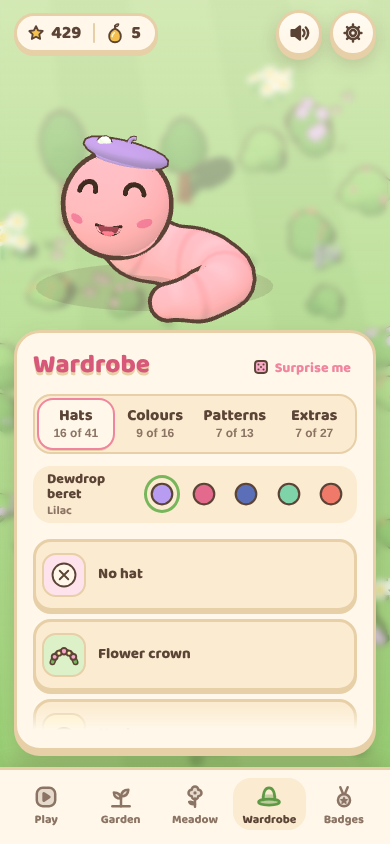
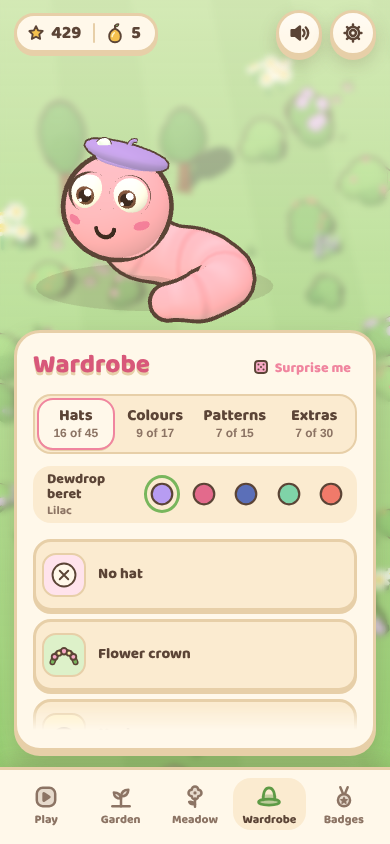
Release 1.27.0: five new chapters, new cosmetics and play-style badges
Claude-Session: https://claude.ai/code/session_018b3cP1De1FMBieJja8GZr1

diff --git a/src/game/ui/news.js b/src/game/ui/news.js
@@ -4,6 +4,10 @@
 // add an entry on top. Returning players see the newest entry once as a card on the Play tab, new players never
 // do (squirm-news holds the last version seen); Settings > About lists them all.
 const NEWS=[
+  ['1.27.0','2026-11-08','Everything blooms',['Five new chapters, fifty patches where three or more garden tricks work together: picnics in the rain, busy bees, secret passages, slippery slopes and one last big bloom.',
+    'New things to wear: a frog hood, a pirate hat, a watering can, a bucket hat, a bee buddy, a snorkel, a party blower, candy stripes, a starry pattern and a Moonbeam worm.',
+    'Clever crawling: nine new badges for how you play, like winning in the rain, at every time of day, or with a different hat three times in a row.',
+    'Anything you\'ve already earned stays yours, even when new patches arrive.']],
   ['1.26.1','2026-11-07','Race fix',['After a race, your friend\'s moves no longer stay at the top of the screen in your next patch.']],
   ['1.26.0','2026-11-06','Digging and moles',['Two new things in the garden: dirt mounds your worm can dig through (it comes out one segment shorter), and moles that pop up out of their hills every other move. Time your crawl!','Six new chapters, from a gentle Digging in to Deep roots, now the hardest patches in the game.','New things to wear: a flowerpot, a mole friend, a propeller cap, pearls, a bubble-gum bubble and star earrings, plus a muddy-tail pattern, a sticking plaster for bumping into moles, a new orchid worm colour and nine new badges.','Switch on dirt mounds and moles in the meadow too.']],
   ['1.25.1','2026-11-06','Meadow fix',['Switching on lots of meadow mechanics, or all of them, now grows a patch that uses a mix of them, instead of a plain one.']],

diff --git a/CLAUDE.md b/CLAUDE.md
@@ -504,6 +504,13 @@ from a tab replaces that layer with `game`.
 - **Extras:** `EXTRAS` (`[id, name, how to earn, test]`) work the same way through `buildExtra` into the
   head's `accSlot`, saved in `squirm-extra`. An extra (or pattern) that a chapter earns uses `byChapter(k)` as its test. Every hat and extra needs a sticker in `ART` (`hat-<id>` /
   `extra-<id>`).
+- **Earned stays earned:** hats, extras and patterns pass through `kept(key,test)` (`core/base.js`; `hatUnlocked` for hats,
+  wrapped in `rewards/colours.js` for the rest): once a test passes, `progress.kept['h:'|'e:'|'p:'+id]` remembers it, so a
+  test that can turn false again (new patches make "finish every garden patch" untrue) never locks an item. `keepSweep`
+  at boot notes everything already earned, and once (`kept.v`) gave the Butterfly friend to whoever had grown the 340
+  patches from before chapters 35-39. Badges are stored once earned already; colours go by stars, which never drop. When
+  you add a test that new patches could undo (counts out of `LEVELS.length`, `allCleared`), it's covered; when you change
+  an existing test so it gets harder, nothing changes for players who already have the item.
 - **Wear motion** (end of `models/extras.js`): a few items have a part that moves (pinwheel, butterfly, firefly,
   bee antennae, lightbulb, weathervane, teacup steam, rain cloud, sprout, the flowerpot's seedling, the mole friend's bob,
   the propeller, the bubble-gum bubble, star earrings, the bee buddy, the watering can's drips, the party blower). Put `userData.anim` on the part
